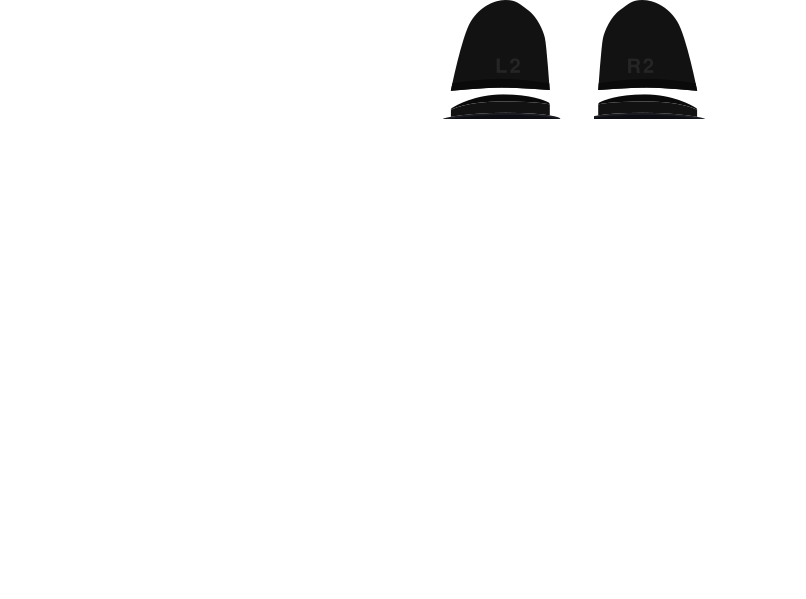
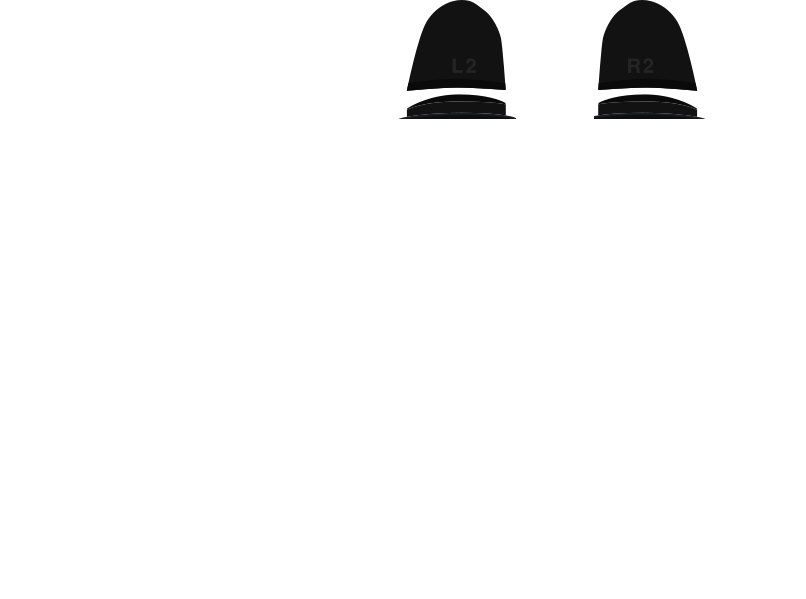
Updated

Changed region(s): [[0.4963, 0.0, 0.6824, 0.2104]]

diff --git a/customps4.css b/customps4.css
@@ -1,6 +1,6 @@
 /*BEGIN PS4 Controller Styling*/
 .controller.custom {
-    background: url(https://i.imgur.com/PrYcHSB.png);
+    background: url(https://i.imgur.com/CR5HrdV.png);
     height: 598px;
     width: 806px;
     /*    margin-left: -403px;
@@ -49,7 +49,7 @@
     position: absolute;
     width: 588px;
     height: 23px;
-    left: 109px;
+    left: 410px;
     top: 94px;
 }
 
@@ -64,7 +64,8 @@
 }
 
 .custom .bumper.right {
-    float: right;
+    position: absolute;
+    right: 300px;
     transform: rotateY(180deg);
 }
 
